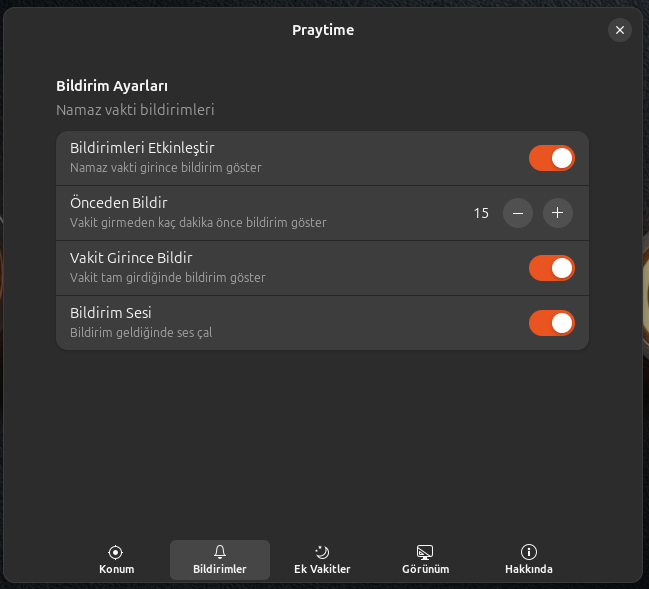
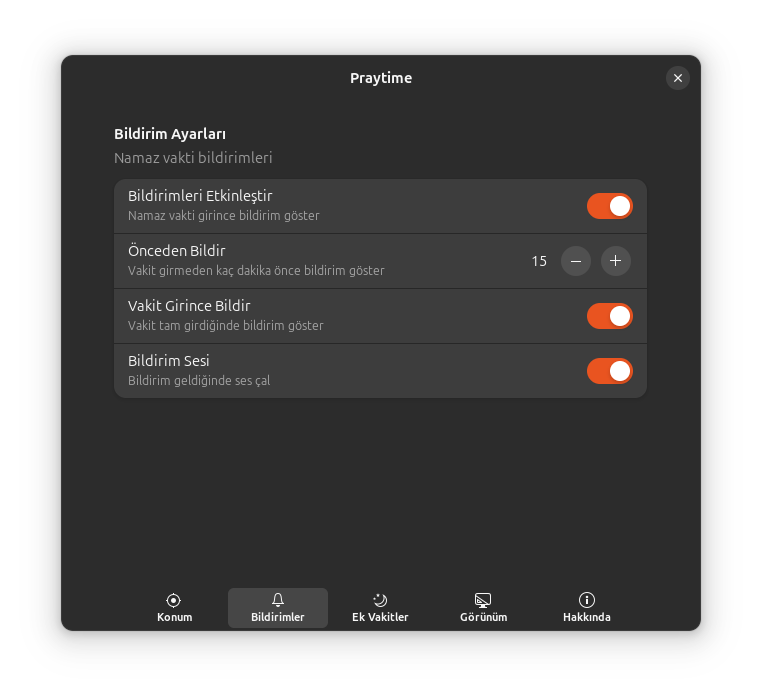
docs: ekran görüntüleri güncellendi

diff --git a/README.md b/README.md
@@ -12,8 +12,8 @@ GNOME Shell için namaz vakitleri bildirimi ve panel gösterimi extension'ı.
 
 | | |
 |:---:|:---:|
-| <img src="_img/ss2.png" width="380" height="343" alt="Konum Ayarları" /><br>**Konum Ayarları** | <img src="_img/ss3.png" width="380" height="345" alt="Bildirim Ayarları" /><br>**Bildirim Ayarları** |
-| <img src="_img/ss4.png" width="380" height="345" alt="Ek Vakitler" /><br>**Ek Vakitler** | <img src="_img/ss5.png" width="380" height="345" alt="Görünüm Ayarları" /><br>**Görünüm Ayarları** |
+| <img src="_img/ss2.png" width="380" height="348" alt="Konum Ayarları" /><br>**Konum Ayarları** | <img src="_img/ss3.png" width="380" height="348" alt="Bildirim Ayarları" /><br>**Bildirim Ayarları** |
+| <img src="_img/ss4.png" width="380" height="348" alt="Ek Vakitler" /><br>**Ek Vakitler** | <img src="_img/ss5.png" width="380" height="348" alt="Görünüm Ayarları" /><br>**Görünüm Ayarları** |
 
 ## Özellikler
 
